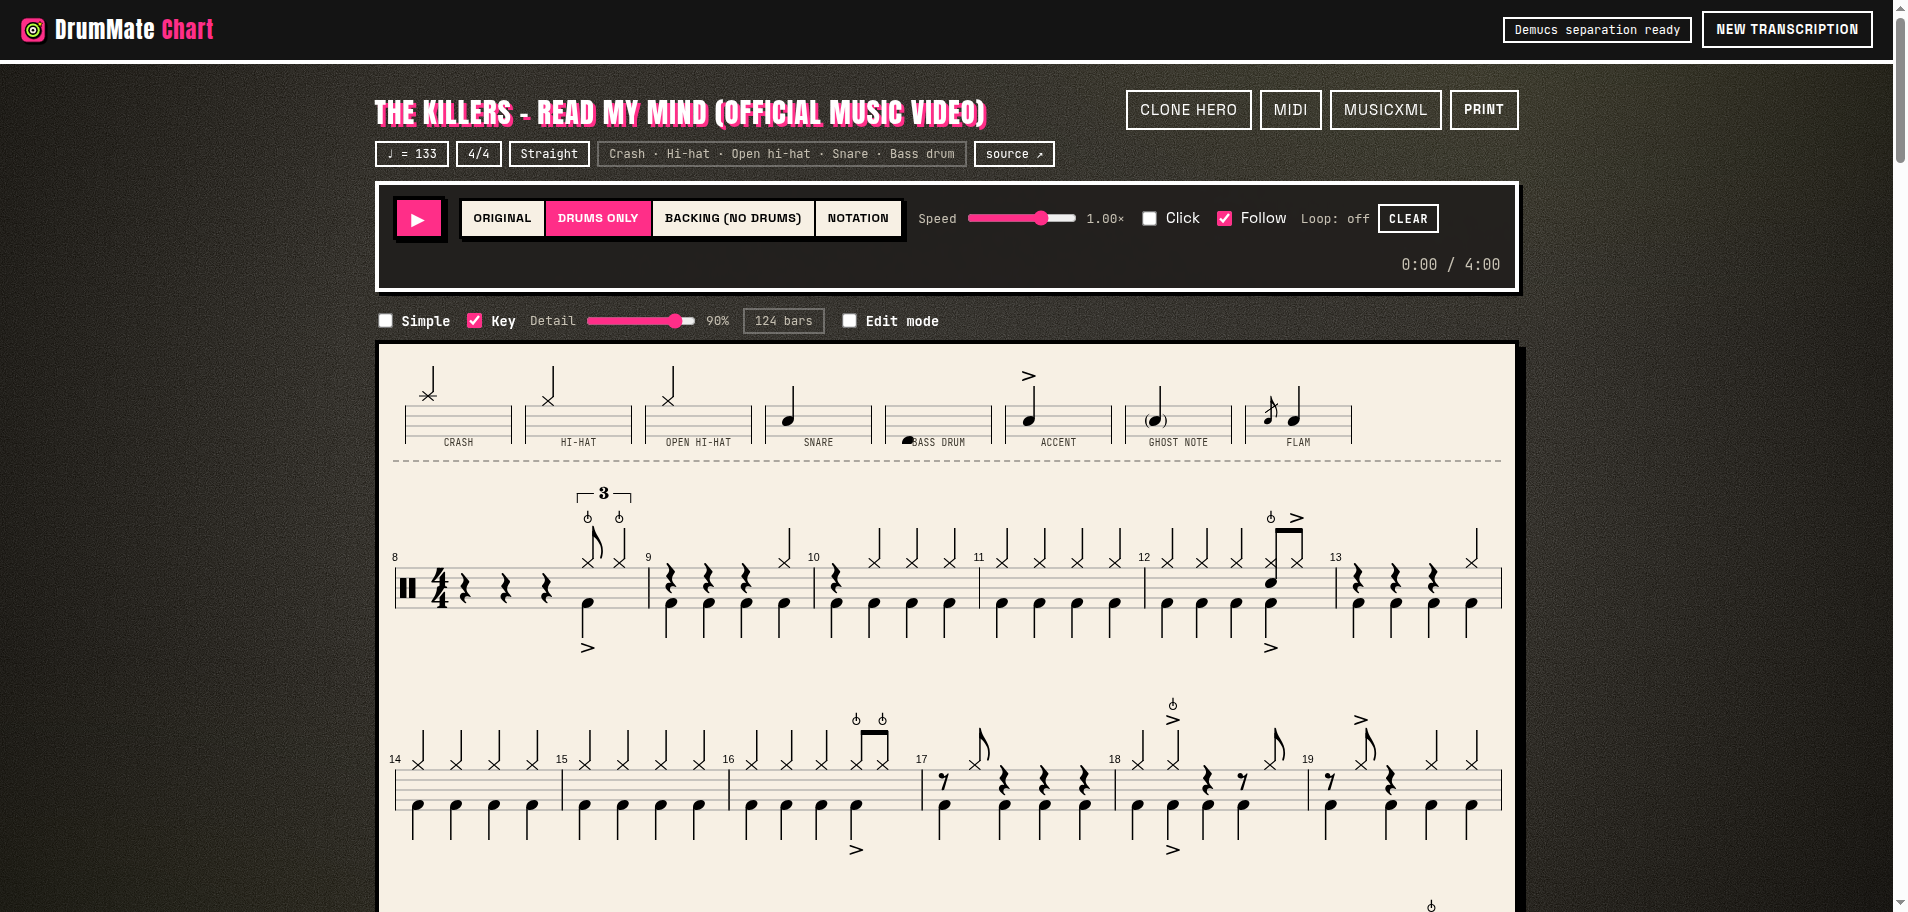
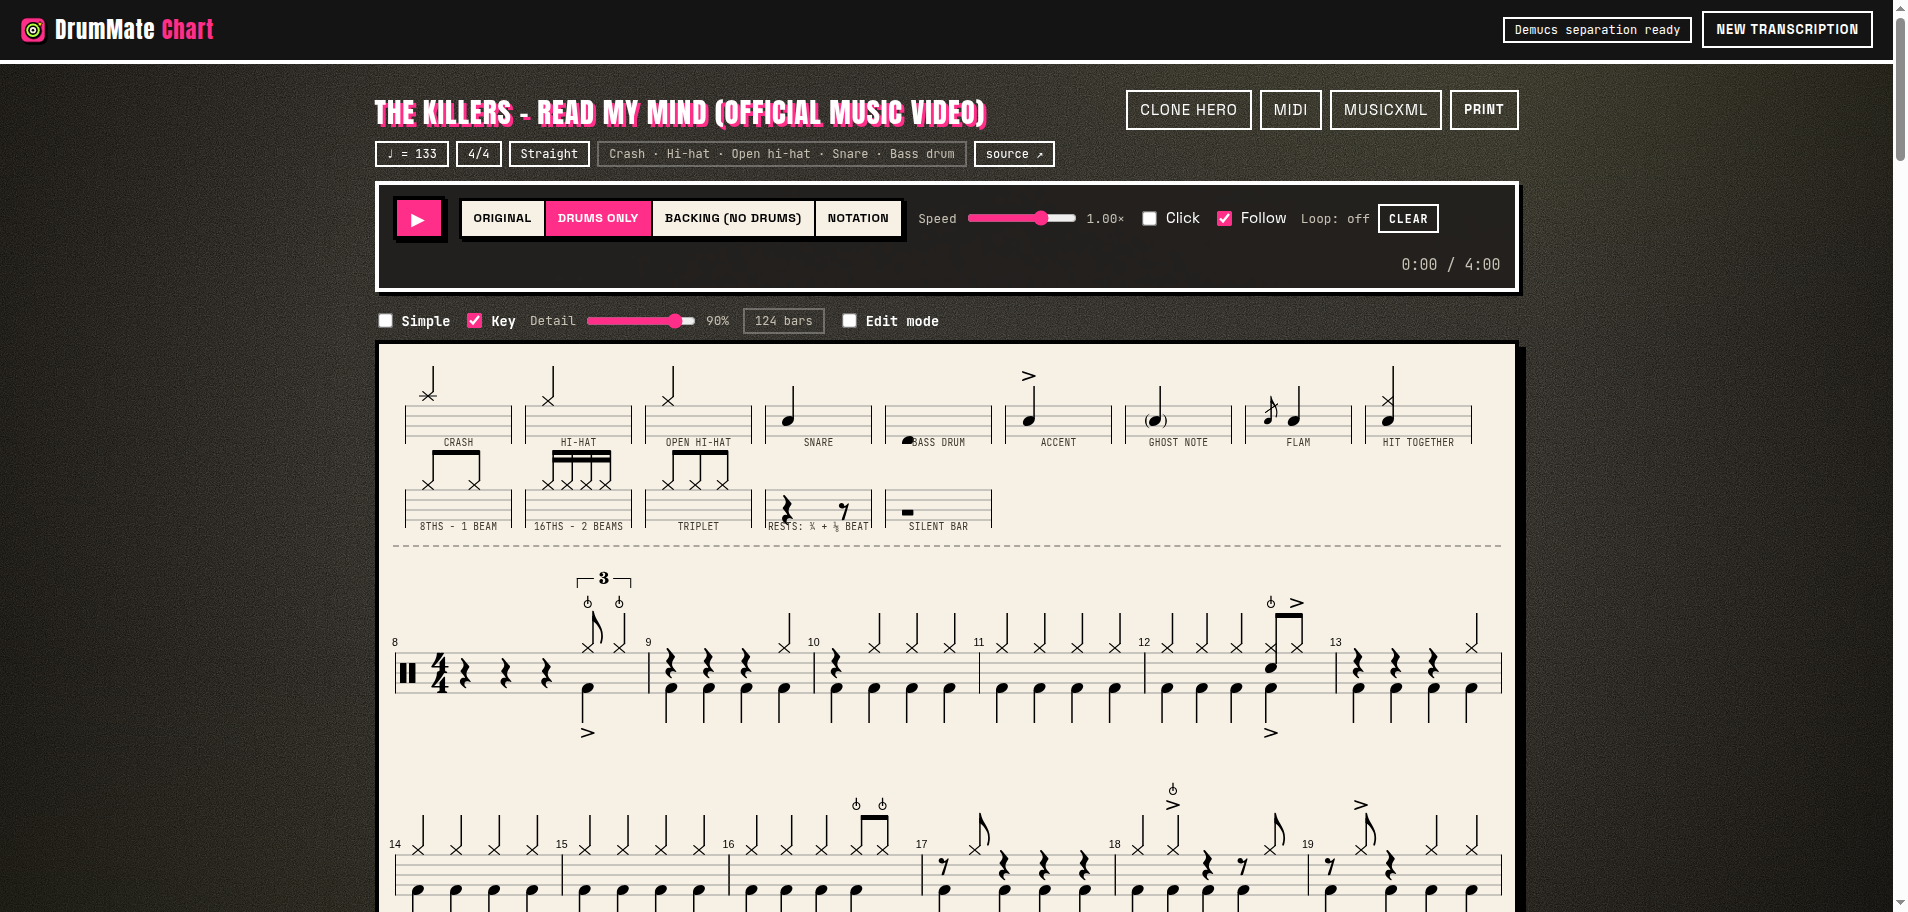
Rhythm symbols in the key; init survives stale HTML
The key now has a second row: two drums on one stem, 8ths (one beam),
16ths (two beams), triplet bracket, quarter+8th rests, and the whole-bar
rest. Optional controls bind through a null-safe helper so a cached
index.html can never brick startup again.

Changed region(s): [[0.1855, 0.4912, 0.804, 1.0], [0.7112, 0.4298, 0.7731, 0.4912]]

diff --git a/frontend/app.js b/frontend/app.js
@@ -335,7 +335,10 @@ function legendCell(container, label, build){
     const ctx=r.getContext();
     const stave=new VF.Stave(2, 0, 106, {num_lines:5});
     stave.setContext(ctx).draw();
-    VF.Formatter.FormatAndDraw(ctx, stave, build());
+    const res=build();
+    const notes=Array.isArray(res)?res:res.notes;
+    VF.Formatter.FormatAndDraw(ctx, stave, notes);
+    if(res.post) res.post.forEach(d=>d.setContext(ctx).draw());
   }catch(_){ cell.remove(); }
 }
 
@@ -365,12 +368,37 @@ function renderLegend(host){
     const gn=new VF.GraceNote({keys:['c/5'], duration:'8', slash:true, clef:'percussion'});
     n.addModifier(new VF.GraceNoteGroup([gn], false), 0);
   }]));
+
+  /* rhythm symbols */
+  const hat=(dur)=>new VF.StaveNote({keys:[DRUMS.hihat.key], duration:dur,
+    clef:'percussion', stem_direction:VF.Stem.UP});
+  legendCell(div, 'Hit together', ()=>[new VF.StaveNote({
+    keys:[DRUMS.snare.key, DRUMS.hihat.key], duration:'q',
+    clef:'percussion', stem_direction:VF.Stem.UP})]);
+  legendCell(div, '8ths - 1 beam', ()=>{
+    const notes=[hat('8'),hat('8')];
+    return {notes, post:[new VF.Beam(notes)]};
+  });
+  legendCell(div, '16ths - 2 beams', ()=>{
+    const notes=[hat('16'),hat('16'),hat('16'),hat('16')];
+    return {notes, post:[new VF.Beam(notes)]};
+  });
+  legendCell(div, 'Triplet', ()=>{
+    const notes=[hat('8'),hat('8'),hat('8')];
+    return {notes, post:[new VF.Beam(notes),
+      new VF.Tuplet(notes,{num_notes:3, notes_occupied:2, bracketed:true, ratioed:false})]};
+  });
+  legendCell(div, 'Rests: \u00bc + \u215b beat', ()=>[
+    new VF.StaveNote({keys:['b/4'], duration:'qr', clef:'percussion'}),
+    new VF.StaveNote({keys:['b/4'], duration:'8r', clef:'percussion'})]);
+  legendCell(div, 'Silent bar', ()=>[
+    new VF.StaveNote({keys:['b/4'], duration:'wr', clef:'percussion'})]);
 }
 
 function renderScore(){
   const host=$('#score');
   host.innerHTML=''; S.systems=[];
-  if($('#opt-key')?.checked) renderLegend(host);
+  if($('#opt-key') ? $('#opt-key').checked : true) renderLegend(host);
   const bpb=S.score.beatsPerBar;
   const width=Math.max(340, host.clientWidth-16);
 
@@ -819,6 +847,12 @@ async function saveEdits(){
 }
 
 /* ── wiring ───────────────────────────────────────────────────────────── */
+function on(sel, ev, fn){
+  const el=$(sel);
+  if(el) el.addEventListener(ev, fn);
+  return el;
+}
+
 function init(){
   $('#btn-go').onclick=startJob;
   $('#url').addEventListener('keydown', e=>{ if(e.key==='Enter') startJob(); });
@@ -833,36 +867,36 @@ function init(){
     const f=e.dataTransfer.files[0]; if(f) startUpload(f);
   });
 
-  $('#opt-sens').addEventListener('input', e=>
+  on('#opt-sens','input', e=>
     $('#opt-sens-out').textContent=Number(e.target.value).toFixed(1));
   $('#btn-cancel').onclick=()=>{ clearInterval(S.poll); showView('setup'); };
   $('#btn-new').onclick=()=>{ pause(); clearInterval(S.poll); showView('setup'); };
   $('#btn-play').onclick=togglePlay;
-  $('#audio').addEventListener('error', ()=>{
+  on('#audio','error', ()=>{
     $('#clock').textContent='audio failed to load \u2014 press play to retry';
   });
   $('#speed').addEventListener('input', e=>setSpeed(Number(e.target.value)));
   $('#btn-loop-clear').onclick=()=>{ S.loopFrom=S.loopTo=null; updateLoopLabel(); };
   $('#btn-print').onclick=()=>window.print();
   $$('.seg').forEach(b=>b.onclick=()=>selectSource(b.dataset.src));
-  $('#opt-edit').addEventListener('change', e=>{
+  on('#opt-edit','change', e=>{
     S.editing=e.target.checked;
     $('#palette').classList.toggle('hidden', !S.editing);
     $('#edit-hint').textContent = S.editing
       ? 'Pick a drum, then click the staff to add it — click it again to remove it.'
       : '';
   });
-  $('#opt-simple').addEventListener('change', e=>{
+  on('#opt-simple','change', e=>{
     S.simple=e.target.checked;
     if(S.score) renderScore();
   });
-  $('#detail').addEventListener('input', e=>{
+  on('#detail','input', e=>{
     S.detail=Number(e.target.value);
     $('#detail-out').textContent=S.detail+'%';
     if(S.score) renderScore();
   });
-  $('#opt-key').addEventListener('change', ()=>{ if(S.score) renderScore(); });
-  $('#opt-met').addEventListener('change', ()=>{ ensureCtx(); S.metIdx=0; resetSched(position()); });
+  on('#opt-key','change', ()=>{ if(S.score) renderScore(); });
+  on('#opt-met','change', ()=>{ ensureCtx(); S.metIdx=0; resetSched(position()); });
 
   document.addEventListener('keydown', e=>{
     if(e.target.matches('input,select,textarea')) return;
